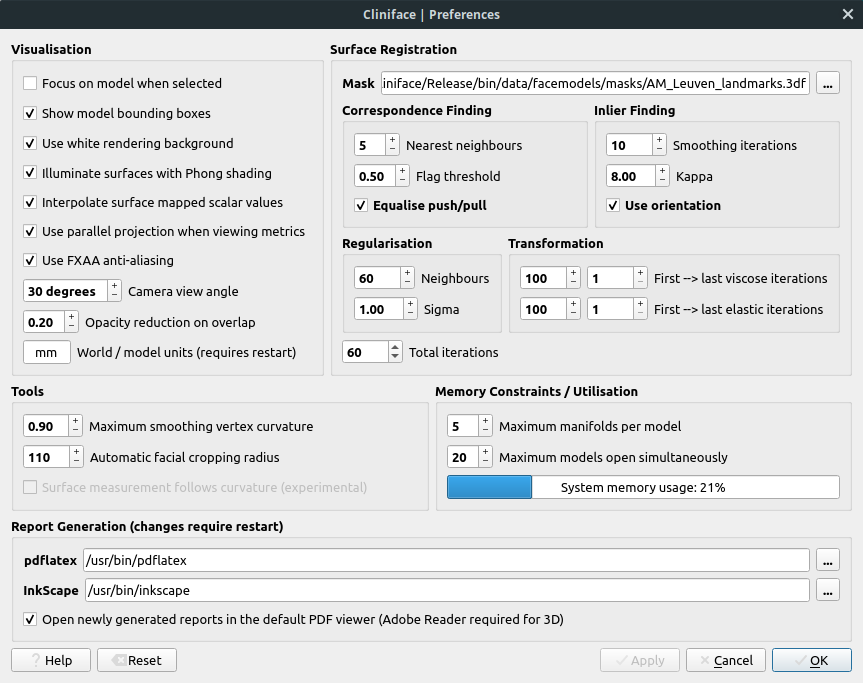
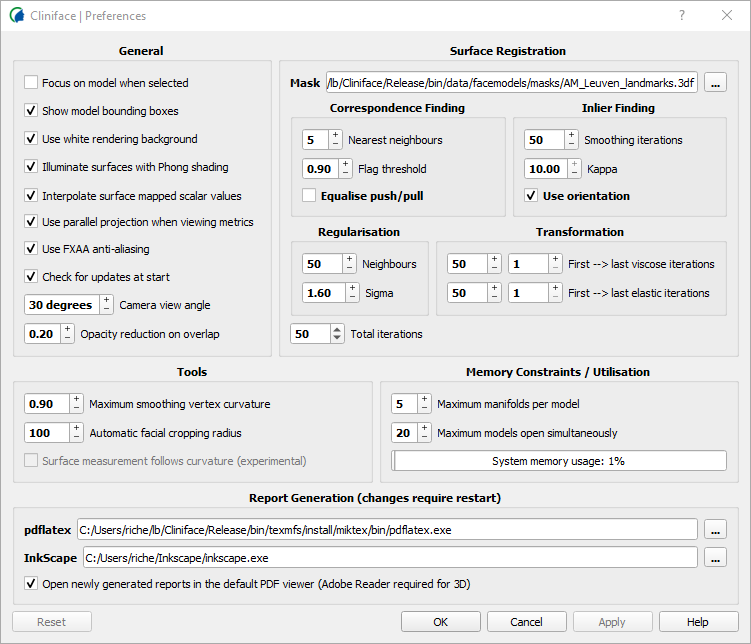
Updated documentation and fixed visualisation refresh

diff --git a/html/preferences.html b/html/preferences.html
@@ -39,6 +39,11 @@ Settings are saved between sessions in your home directory in the <em>.cliniface
 <h3>Use FXAA Anti-Aliasing</h3>
 <p>Checked by default, this option will reduce the appearance of jagged lines in the viewer due to sharp pixel edges.
 </p>
+<h3>Check for updates at start</h3>
+<p>When Cliniface starts it checks if an update is available and offers to download and install it if there is.
+Uncheck this box to prevent Cliniface from automatically checking. You can still manually check for updates
+by clicking <em>Check for updates</em> under the <em>Help</em> menu.
+</p>
 <h3>Camera view angle</h3>
 <p>Changes the camera field of view (30 degrees by default). The field of view is ignored when parallel projection is on.
 </p>

diff --git a/html/faqs.html b/html/faqs.html
@@ -47,8 +47,9 @@ to synthesise something approaching a diagnosis.
 
 <h2 id="2">Do the images loaded into Cliniface remain private?</h2>
 <p style="margin-left: 30px">
-Yes. Cliniface does all processing locally and doesn't send your data anywhere or collect
-any summary information or statistics or anything at all like that.
+Yes. Cliniface does all processing locally and doesn't send your data anywhere. The only time
+Cliniface connects to the Internet is to check if a new update is available - no information
+about any images viewed using Cliniface is uploaded elsewhere.
 </p>
 
 <h2 id="3">Why doesn't the loaded 3D image show the facial texture?</h2>

diff --git a/html/functionality.html b/html/functionality.html
@@ -290,6 +290,9 @@ Display the <a href="preferences.html">preferences</a> dialog to configure Clini
 Display the loaded plugins.</p>
 <p><strong>About</strong>.
 About Cliniface, how to cite it, and how to support our efforts.</p>
+<p><strong>Check for updates</strong> from the Internet.
+Cliniface checks automatically every time it starts by default
+(toggle this behaviour off/on in the <a href="preferences.html">preferences</a>).</p>
 
 <br>
 <h2 id="context_menu">Context (Right Click Menu)</h2>

diff --git a/src/ClinifaceMain.cpp b/src/ClinifaceMain.cpp
@@ -527,9 +527,11 @@ void ClinifaceMain::_createActions()
     _actVisWireframe = new ActionVisualise( "Wireframe", QIcon(":/icons/WIREFRAME"), new WireframeVisualisation, Qt::Key_W);
     _actVisOutlines = new ActionVisualise( "Manifold Boundaries", QIcon(":/icons/OUTLINES"), new OutlinesVisualisation, Qt::Key_O);
     _actVisMedianPlane = new ActionVisualise( "Median Plane", QIcon(":/icons/XPLANE"), new PlaneVisualisation(0), Qt::Key_P);
+    _actVisMedianPlane->addRefreshEvent( Event::LOADED_MODEL | Event::MASK_CHANGE);
     _actVisTransversePlane = new ActionVisualise( "Transverse Plane", QIcon(":/icons/YPLANE"), new PlaneVisualisation(1), Qt::Key_Q);
-    //_actVisFrontalPlane = new ActionVisualise( "Frontal Plane", QIcon(":/icons/ZPLANE"), new PlaneVisualisation(2), Qt::Key_R);
+    _actVisTransversePlane->addRefreshEvent( Event::LOADED_MODEL | Event::MASK_CHANGE);
     _actToggleMask = new ActionToggleMask( "Show Correspondence Mask", QIcon(":/icons/MASK"), Qt::Key_M);
+    _actToggleMask->addRefreshEvent( Event::LOADED_MODEL | Event::MASK_CHANGE);
 
     _actVisPolyLabels = new ActionVisualise( "Triangle Labels", QIcon(":/icons/NUMBERS"), new LabelsVisualisation<PolyLabelsView>, Qt::SHIFT + Qt::Key_F);
     _actVisVertexLabels = new ActionVisualise( "Vertex Labels", QIcon(":/icons/NUMBERS"), new LabelsVisualisation<VertexLabelsView>, Qt::SHIFT + Qt::Key_V);
@@ -545,6 +547,7 @@ void ClinifaceMain::_createActions()
     _actShowLandmarks->addRefreshEvent( Event::MESH_CHANGE);
     _actVisLandmarkLabels = new ActionVisualise( "Show Landmark Labels", QIcon(":/icons/TAGS"), new LabelsVisualisation<LandmarkLabelsView>);
     _actVisLandmarkLabels->setToolTip( "Toggle the landmark labels on and off.");
+    _actVisLandmarkLabels->addRefreshEvent( Event::LOADED_MODEL | Event::MASK_CHANGE);
     _actEditLandmarks->setShowLandmarksAction( _actShowLandmarks);
     _actEditLandmarks->setAlignLandmarksAction( _actAlignLandmarks);
     _actEditLandmarks->setRestoreLandmarksAction( _actRestoreLandmarks);
